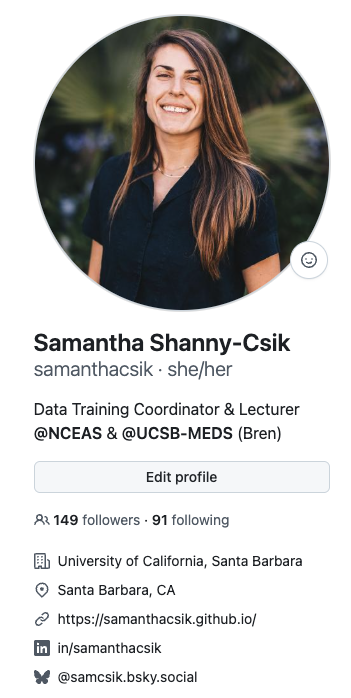
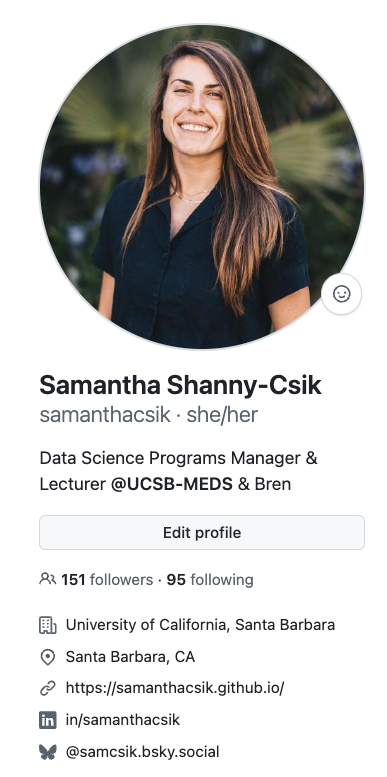
updated screenshot, set all links to open in new tab

diff --git a/index.html b/index.html
@@ -337,12 +337,12 @@
 <div class="column" style="width:50%;">
 <p><span class="body-text-s baby-blue-text"><strong>Published:</strong> August 26, 2024</span></p>
 </div><div class="column" style="width:50%;">
-<p><span class="body-text-s baby-blue-text"><strong>Last updated:</strong> Jul 29, 2025</span></p>
+<p><span class="body-text-s baby-blue-text"><strong>Last updated:</strong> Oct 27, 2025</span></p>
 </div></div>
 <hr class="hr-teal">
 <div class="columns">
 <div class="column" style="width:50%;">
-<p><span class="custom-subtitle2">Sam Shanny-Csik |</span><br> <em><span class="custom-subtitle3">Lecturer &amp; Data Training Coordinator</span></em></p>
+<p><span class="custom-subtitle2">Sam Shanny-Csik |</span><br> <em><span class="custom-subtitle3">Lecturer &amp; Data Science Programs Manager</span></em></p>
 </div><div class="column" style="width:50%;">
 <p><span class="custom-subtitle2">Master of Environmental Data Science |</span><br> <span class="custom-subtitle3"><em>Bren School of Environmental Science &amp; Management</em></span></p>
 </div></div>
@@ -386,7 +386,7 @@
 </div>
 </div>
 <div class="center-text gray-text body-text-s">
-<p>By default, your profile photo is a unique <a href="https://github.blog/news-insights/company-news/identicons/">Identicon</a>, which is generated from your GitHub user ID – pretty cool! But you should absolutely update this with your photo.</p>
+<p>By default, your profile photo is a unique <a href="https://github.blog/news-insights/company-news/identicons/" target="_blank">Identicon</a>, which is generated from your GitHub user ID – pretty cool! But you should absolutely update this with your photo.</p>
 </div>
 </div><div class="column body-text-m" style="width:50%;">
 <ul>
@@ -424,7 +424,7 @@
 </ul>
 </div></div>
 <div class="footer">
-<p>Find more information on <a href="https://docs.github.com/en/account-and-profile/setting-up-and-managing-your-github-profile/customizing-your-profile/personalizing-your-profile">GitHub Docs</a></p>
+<p>Find more information on <a href="https://docs.github.com/en/account-and-profile/setting-up-and-managing-your-github-profile/customizing-your-profile/personalizing-your-profile" target="&quot;_blank">GitHub Docs</a></p>
 </div>
 </section>
 <section id="pin-repos1" class="slide level2" data-menu-title="Pin your top repos 1">
@@ -433,7 +433,7 @@
 <hr>
 
 <img data-src="images/pin-tour.png" class="quarto-figure quarto-figure-center r-stretch" style="width:100.0%"><div class="footer">
-<p>Find more information on <a href="https://docs.github.com/en/account-and-profile/setting-up-and-managing-your-github-profile/customizing-your-profile/pinning-items-to-your-profile">GitHub Docs</a></p>
+<p>Find more information on <a href="https://docs.github.com/en/account-and-profile/setting-up-and-managing-your-github-profile/customizing-your-profile/pinning-items-to-your-profile" target="&quot;_blank">GitHub Docs</a></p>
 </div>
 </section>
 <section id="pin-repos1" class="slide level2" data-menu-title="Pin your top repos 1">
@@ -481,7 +481,7 @@
 </div>
 
 <img data-src="images/contributions.png" class="quarto-figure quarto-figure-center r-stretch" style="width:100.0%"><div class="footer">
-<p><strong>Troubleshooting or trying to understand your contributions map? Check out this help documentation: <a href="https://docs.github.com/en/account-and-profile/setting-up-and-managing-your-github-profile/managing-contribution-settings-on-your-profile/why-are-my-contributions-not-showing-up-on-my-profile">Why are my contributions now showing up on my profile?</a></strong></p>
+<p><strong>Troubleshooting or trying to understand your contributions map? Check out this help documentation: <a href="https://docs.github.com/en/account-and-profile/setting-up-and-managing-your-github-profile/managing-contribution-settings-on-your-profile/why-are-my-contributions-not-showing-up-on-my-profile" target="&quot;_blank">Why are my contributions now showing up on my profile?</a></strong></p>
 </div>
 </section>
 <section id="profile-readme1" class="slide level2" data-menu-title="Profile README 1">
@@ -493,12 +493,12 @@
 <div class="fragment">
 <p><span class="body-text-m dark-blue-text"><strong>To add a profile README:</strong></span></p>
 <ol type="1">
-<li>Create a new repo and give it the <strong>same name</strong> as your GitHub username (e.g.&nbsp;<a href="https://github.com/samanthacsik/samanthacsik">my repo</a> is named “samanthacsik”, which matches my GitHub username)</li>
+<li>Create a new repo and give it the <strong>same name</strong> as your GitHub username (e.g.&nbsp;<a href="https://github.com/samanthacsik/samanthacsik">my repo</a>{target=“_blank} is named “samanthacsik”, which matches my GitHub username)</li>
 <li>Make sure your repo is <strong>Public</strong> and initialize it with a <strong>README</strong></li>
 <li>Click the <strong>Edit README</strong> button to edit directly in the browser (I find this easier than cloning and editing locally)</li>
 </ol>
 <div class="footer">
-<p>See <a href="https://docs.github.com/en/account-and-profile/setting-up-and-managing-your-github-profile/customizing-your-profile/managing-your-profile-readme">GitHub documentation</a> for more info on profile READMEs</p>
+<p>See <a href="https://docs.github.com/en/account-and-profile/setting-up-and-managing-your-github-profile/customizing-your-profile/managing-your-profile-readme" target="&quot;_blank">GitHub documentation</a> for more info on profile READMEs</p>
 </div>
 </div>
 </section>
@@ -517,11 +517,11 @@
 <li class="fragment">Something(s) that you’re <span class="teal-text"><strong>currently working on</strong></span></li>
 <li class="fragment">Guidance on how to connect with your <span class="teal-text"><strong>professional communities</strong></span></li>
 </ul></li>
-<li class="fragment">Some template suggestions are provided when you first create your repo / initialize your README (and check out the <a href="https://www.webfx.com/tools/emoji-cheat-sheet/">Emoji Cheat Sheet</a>)</li>
+<li class="fragment">Some template suggestions are provided when you first create your repo / initialize your README (and check out the <a href="https://www.webfx.com/tools/emoji-cheat-sheet/" target="&quot;_blank">Emoji Cheat Sheet</a>)</li>
 </ul>
 </div>
 <div class="footer">
-<p>See the <a href="https://docs.github.com/en/account-and-profile/setting-up-and-managing-your-github-profile/customizing-your-profile/managing-your-profile-readme">GitHub documentation</a> for more info on profile READMEs</p>
+<p>See the <a href="https://docs.github.com/en/account-and-profile/setting-up-and-managing-your-github-profile/customizing-your-profile/managing-your-profile-readme" target="&quot;_blank">GitHub documentation</a> for more info on profile READMEs</p>
 </div>
 </section>
 <section id="profile-readme3" class="slide level2" data-menu-title="Profile README 3">
@@ -544,7 +544,7 @@
 </blockquote>
 </div>
 <div class="right-align-text">
-<p><a href="https://www.w3.org/WAI/fundamentals/accessibility-intro/">-W3C Web Accessibility Initiative</a></p>
+<p><a href="https://www.w3.org/WAI/fundamentals/accessibility-intro/" target="&quot;_blank">-W3C Web Accessibility Initiative</a></p>
 </div>
 </section>
 <section id="gh-accessibility" class="slide level2" data-menu-title="GH Accessibility">
@@ -556,7 +556,7 @@
 <ol type="1">
 <li><span class="teal-text"><strong>Make links descriptive:</strong></span> assistive technologies present links in isolation, so provide context
 <ul>
-<li>e.g.&nbsp;opt for <em>“Find the <a href="https://ucsb-meds.github.io/career-professional-dev/">Career &amp; Professional Development Workshop materials</a>…”</em> rather than <em>“Find Career &amp; Professional Development Workshop materials <a href="https://ucsb-meds.github.io/career-professional-dev/">here</a>”</em></li>
+<li>e.g.&nbsp;opt for <em>“Find the <a href="https://ucsb-meds.github.io/career-professional-dev/" target="_blank">Career &amp; Professional Development Workshop materials</a>…”</em> rather than <em>“Find Career &amp; Professional Development Workshop materials <a href="https://ucsb-meds.github.io/career-professional-dev/" target="_blank">here</a>”</em></li>
 </ul></li>
 </ol>
 </div>
@@ -584,7 +584,7 @@
 </ul></li>
 </ol>
 <div class="footer">
-<p>The above pointers come from the <a href="https://github.blog/">github.blog</a> post, <a href="https://github.blog/developer-skills/github/5-tips-for-making-your-github-profile-page-accessible/">5 tips for making your GitHub profile page accessible</a>, and they apply to <em>all</em> web pages, not just your README!</p>
+<p>The above pointers come from the <a href="https://github.blog/" target="_blank">github.blog</a> post, <a href="https://github.blog/developer-skills/github/5-tips-for-making-your-github-profile-page-accessible/" target="_blank">5 tips for making your GitHub profile page accessible</a>, and they apply to <em>all</em> web pages, not just your README!</p>
 </div>
 </div>
 </section>
